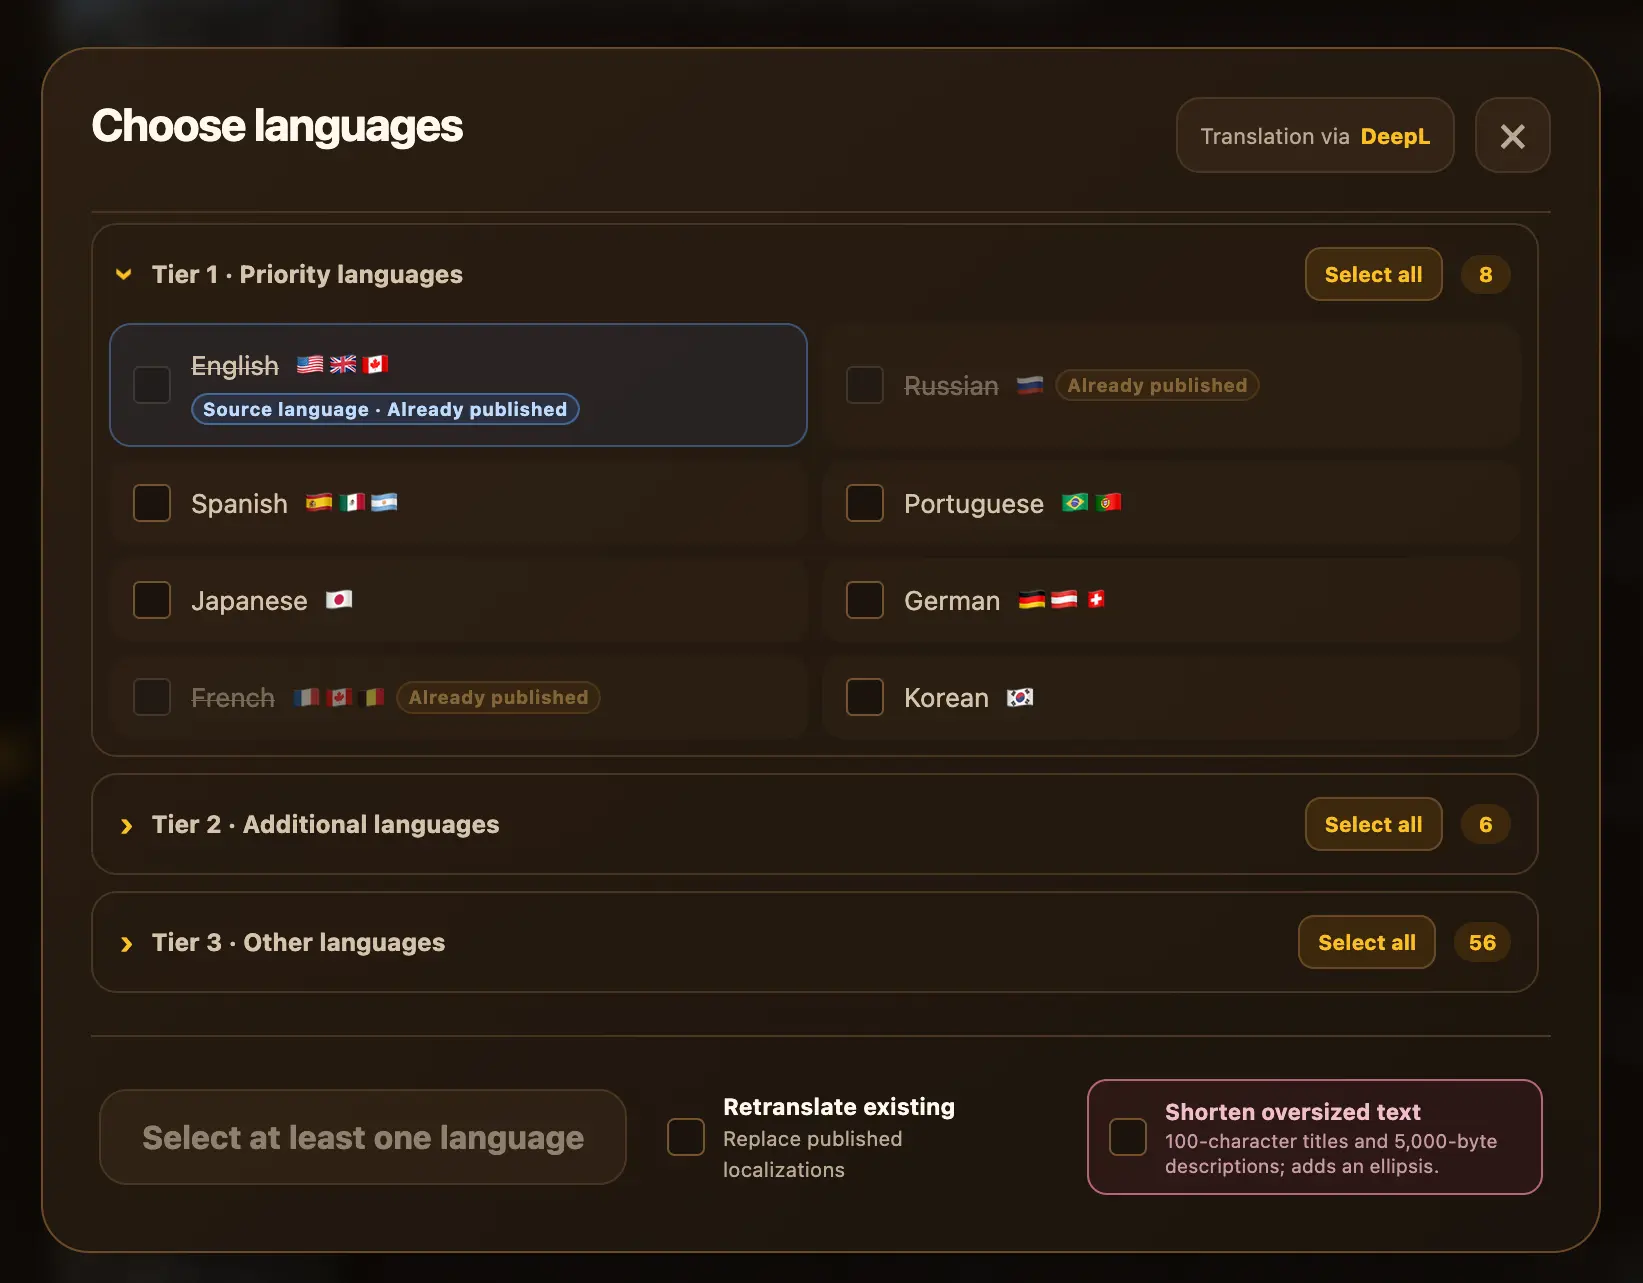
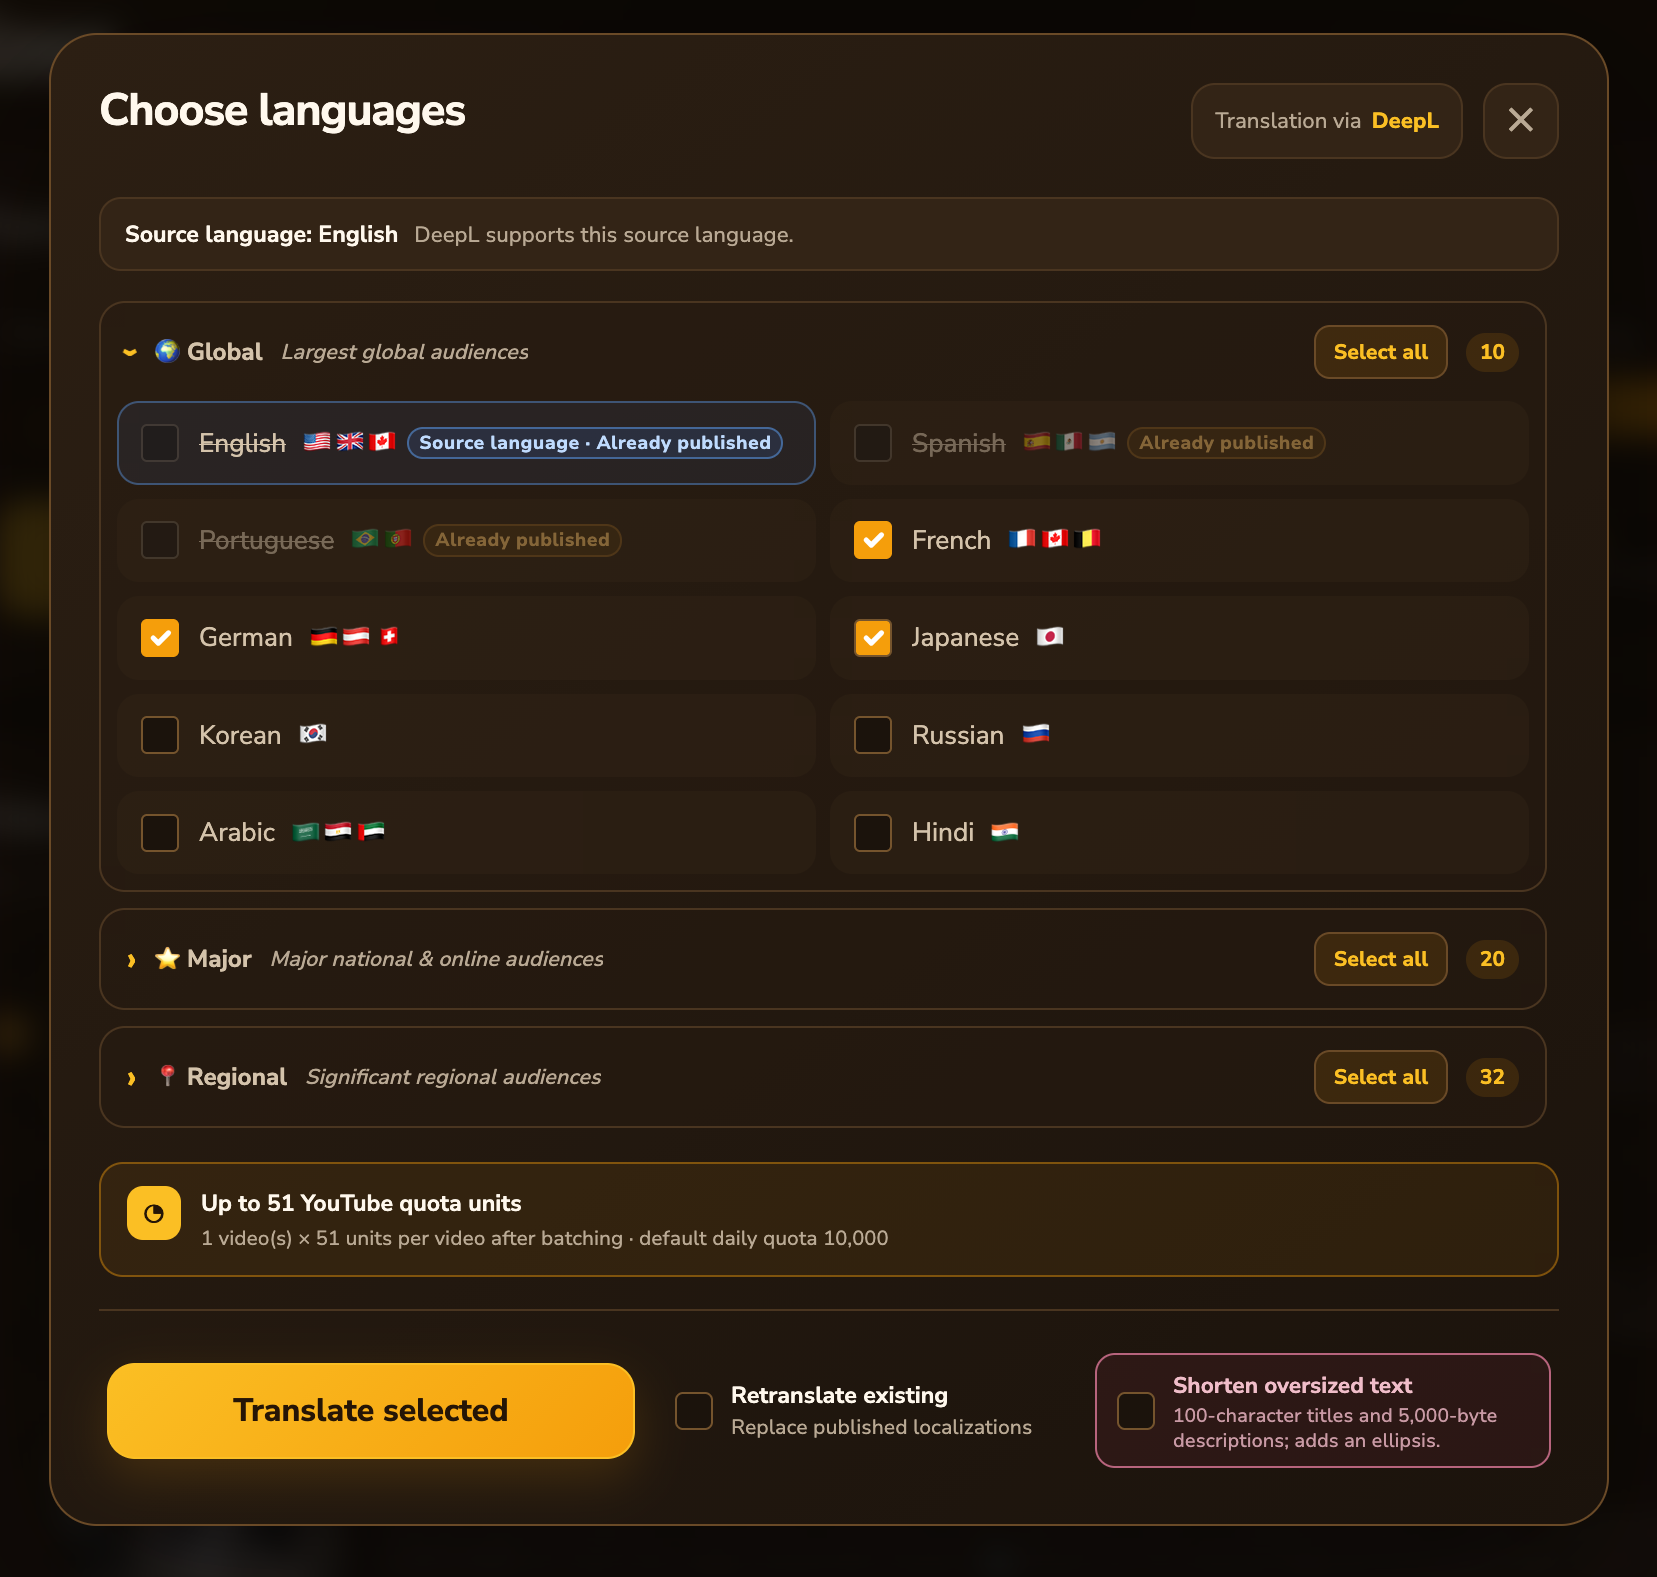
translation window sizes fix + new pic for website

diff --git a/website/index.html b/website/index.html
@@ -107,14 +107,14 @@
                     <span class="feature-symbol" aria-hidden="true">💻</span>
                     <div>
                         <h3>Keep access local</h3>
-                        <p>Your OAuth token, settings, and provider keys stay in local files on your computer.</p>
+                        <p>Your OAuth token, settings, and provider keys stay in local files on your computer and don't leave it.</p>
                     </div>
                 </article>
                 <article>
                     <span class="feature-symbol" aria-hidden="true">🔄</span>
                     <div>
                         <h3>Choose your translator</h3>
-                        <p>Use your own DeepL or Google Cloud Translation account for each localization run.</p>
+                        <p>Use your own DeepL or Google Cloud Translation account (both with generious free usage limits) for each localization run.</p>
                     </div>
                 </article>
                 <article>
@@ -145,7 +145,7 @@
             <div class="secondary-showcase">
                 <div class="showcase-copy">
                     <p class="eyebrow">Choose with context</p>
-                    <h2>See what already exists before publishing anything.</h2>
+                    <h2>See what already exists before localizing anything.</h2>
                     <p>
                         Review source languages, provider compatibility, and existing localizations. Existing translations are skipped unless you deliberately choose to replace them.
                     </p>

diff --git a/src/vagabondity_youtube_localizer/static/css/home.css b/src/vagabondity_youtube_localizer/static/css/home.css
@@ -1614,6 +1614,8 @@ a.top-page-btn:focus-visible {
 .language-modal-content {
     display: flex;
     flex-direction: column;
+    max-height: calc(94vh - 56px);
+    margin: 3vh auto;
 }
 
 .modal-header {
@@ -1623,6 +1625,10 @@ a.top-page-btn:focus-visible {
     gap: 24px;
     padding: 0 0 19px;
     border-bottom: 1px solid var(--border);
+}
+
+.language-modal-content .modal-header {
+    border-bottom: 0;
 }
 
 .modal-header-actions,
